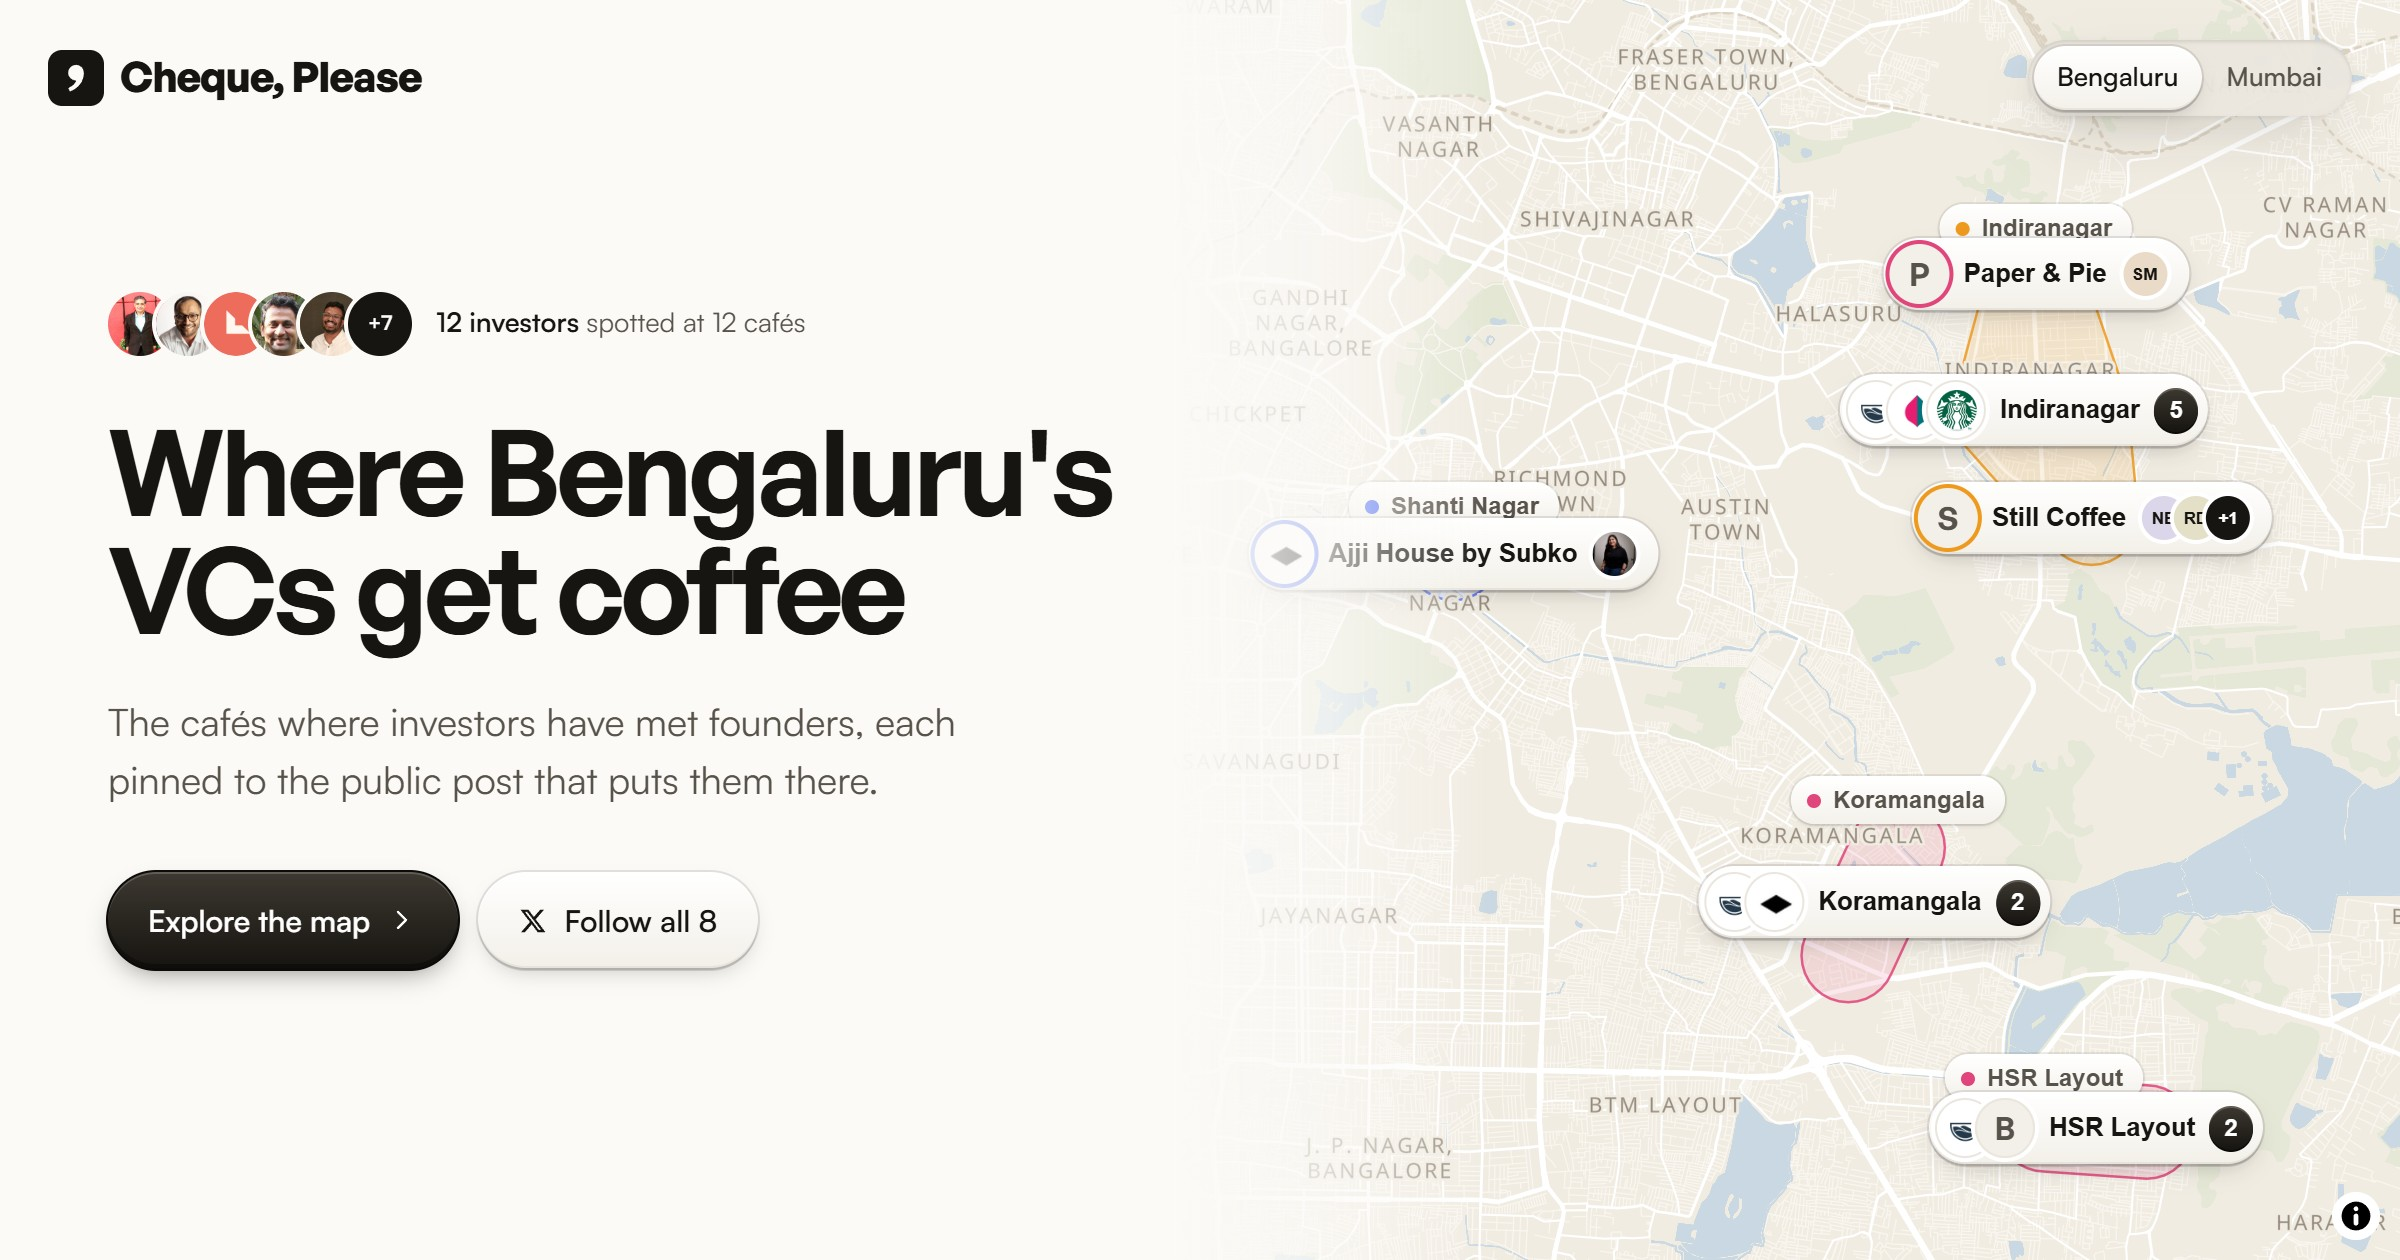
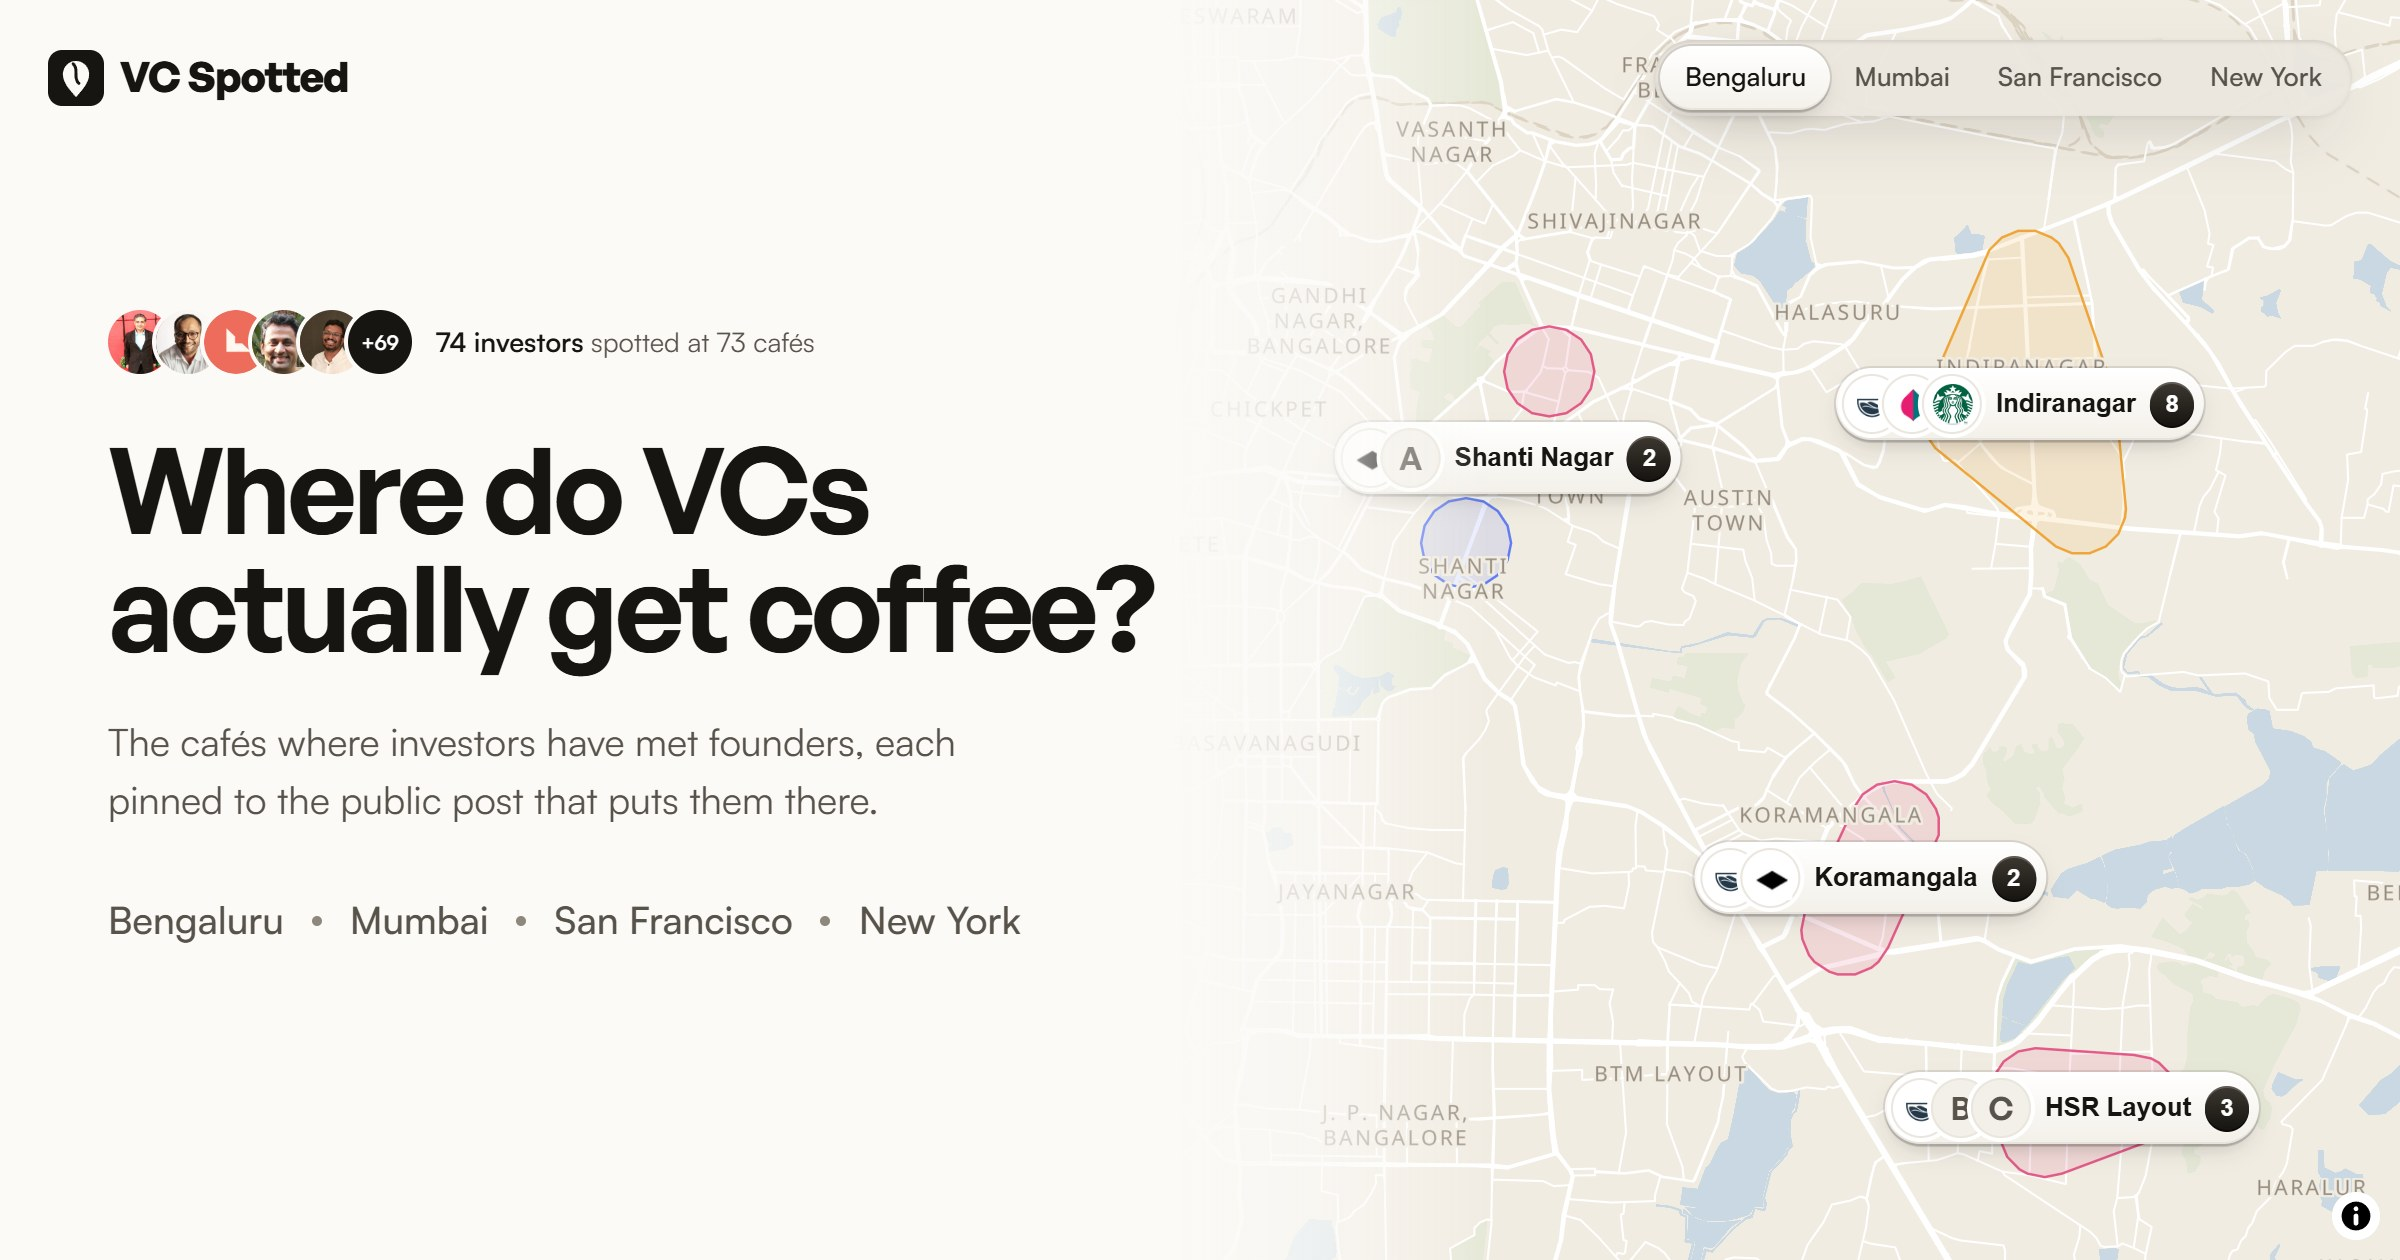
feat: per-city link-preview images and a site-wide one

diff --git a/README.md b/README.md
@@ -2,7 +2,7 @@
 
 **A map of the cafés where VCs and angels meet founders, with every pin backed by a public post.**
 
-![The Bengaluru cover: the headline "Where Bengaluru's VCs get coffee" beside a map of café pins](public/og.jpg)
+![The cover: the headline "Where do VCs actually get coffee?" beside a map of café pins](public/og.jpg)
 
 Pick a city and the map shows the cafés where investors have been seen taking meetings. Open a
 café to see who was there and the tweet or article that puts them there, word for word, with a
@@ -39,17 +39,17 @@ npm install
 npm run dev        # http://127.0.0.1:5190
 ```
 
-| Script            | Does                                                                                            |
-| ----------------- | ----------------------------------------------------------------------------------------------- |
-| `npm run dev`     | Vite dev server on port 5190                                                                    |
-| `npm run build`   | Typecheck, build the static site into `dist/`, then write a page for every address in it         |
-| `npm run preview` | Serve `dist/` on port 4190                                                                      |
-| `npm run check`   | Typecheck, lint, formatting and unit tests; CI runs the same                                    |
-| `npm test`        | Unit tests only (Vitest)                                                                        |
-| `npm run format`  | Format with Prettier                                                                            |
-| `npm run smoke`   | Drive the main flows in Chrome against the preview server                                       |
-| `npm run og`      | Re-render the link-preview image (`public/og.jpg`) from the preview server                      |
-| `npm run shot`    | Screenshot a URL: `npm run shot -- --url http://127.0.0.1:4190/mumbai/ --out shots/mumbai.png` |
+| Script            | Does                                                                                                |
+| ----------------- | --------------------------------------------------------------------------------------------------- |
+| `npm run dev`     | Vite dev server on port 5190                                                                        |
+| `npm run build`   | Typecheck, build the static site into `dist/`, then write a page for every address in it            |
+| `npm run preview` | Serve `dist/` on port 4190                                                                          |
+| `npm run check`   | Typecheck, lint, formatting and unit tests; CI runs the same                                        |
+| `npm test`        | Unit tests only (Vitest)                                                                            |
+| `npm run format`  | Format with Prettier                                                                                |
+| `npm run smoke`   | Drive the main flows in Chrome against the preview server                                           |
+| `npm run og`      | Re-render the link-preview images (`public/og.jpg`, `public/og/<city>.jpg`) from the preview server |
+| `npm run shot`    | Screenshot a URL: `npm run shot -- --url http://127.0.0.1:4190/mumbai/ --out shots/mumbai.png`      |
 
 ## Stack
 
